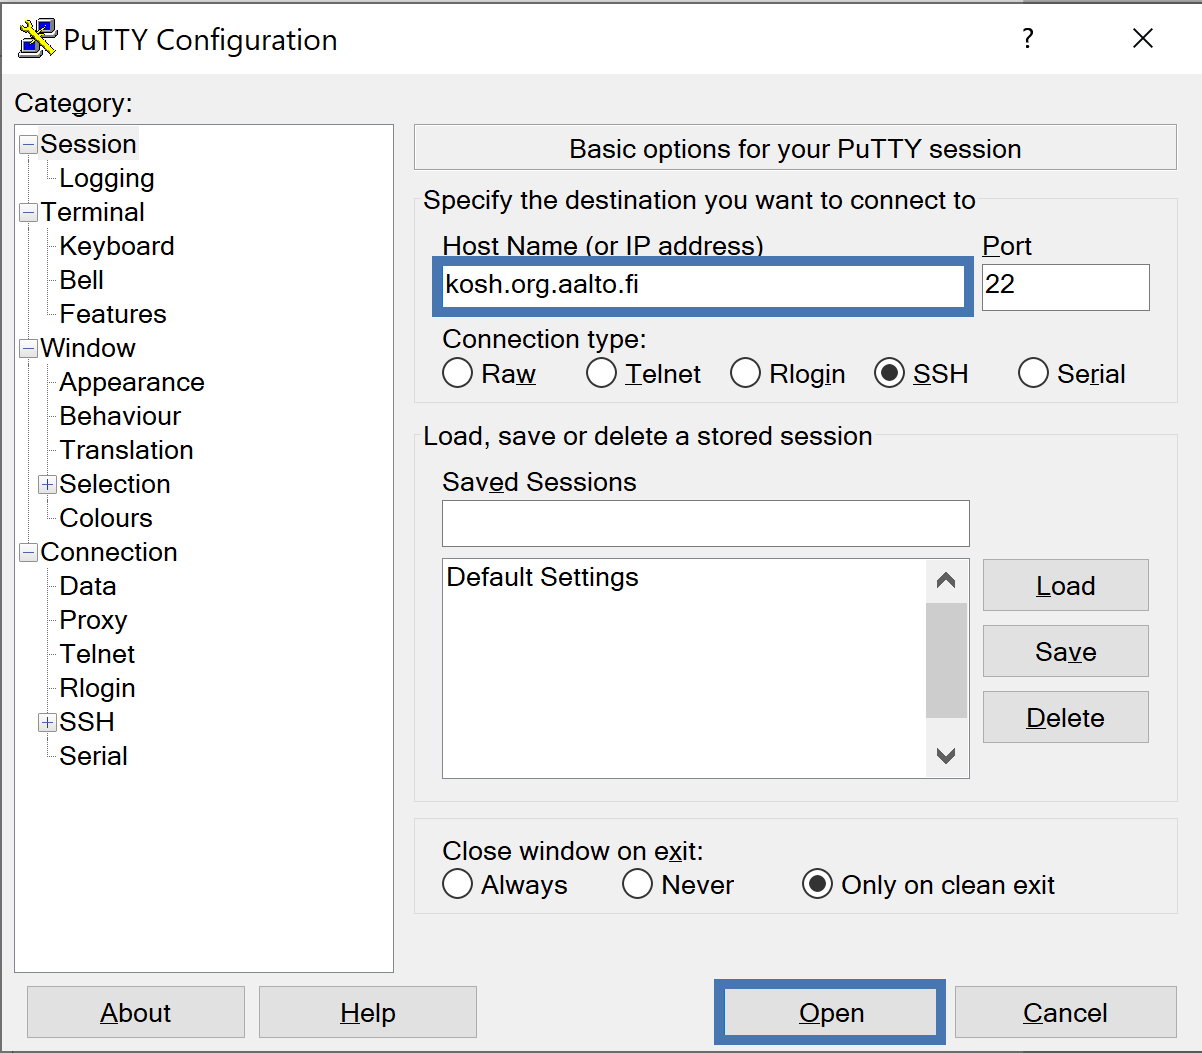
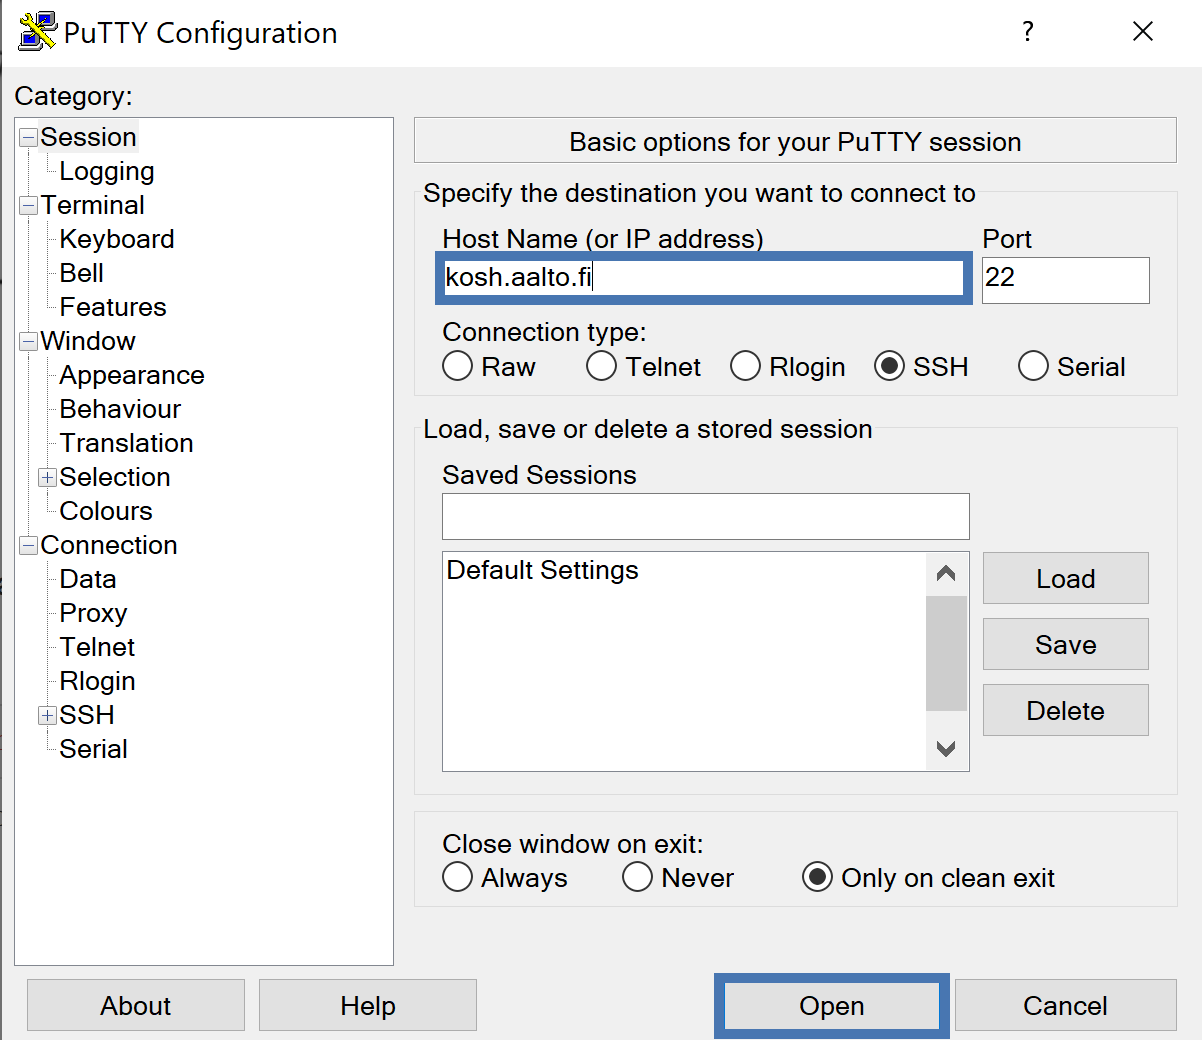
kosh.org.aalto.fi -> kosh.aalto.fi

diff --git a/training/scip/intro-linux-aalto-computing.rst b/training/scip/intro-linux-aalto-computing.rst
@@ -109,7 +109,7 @@ Preparation
   * Windows:
 
     * If you have an Aalto account, download `PuTTY <https://www.putty.org/>`__
-      and use it to connect to ``kosh.org.aalto.fi`` (see this `screenshot
+      and use it to connect to ``kosh.aalto.fi`` (see this `screenshot
       <PuTTY.png>`__). Use your Aalto username and password to login. After
       login, type: ``bash``
     * If you have Windows 10 and admin rights, you can install `Ubuntu
